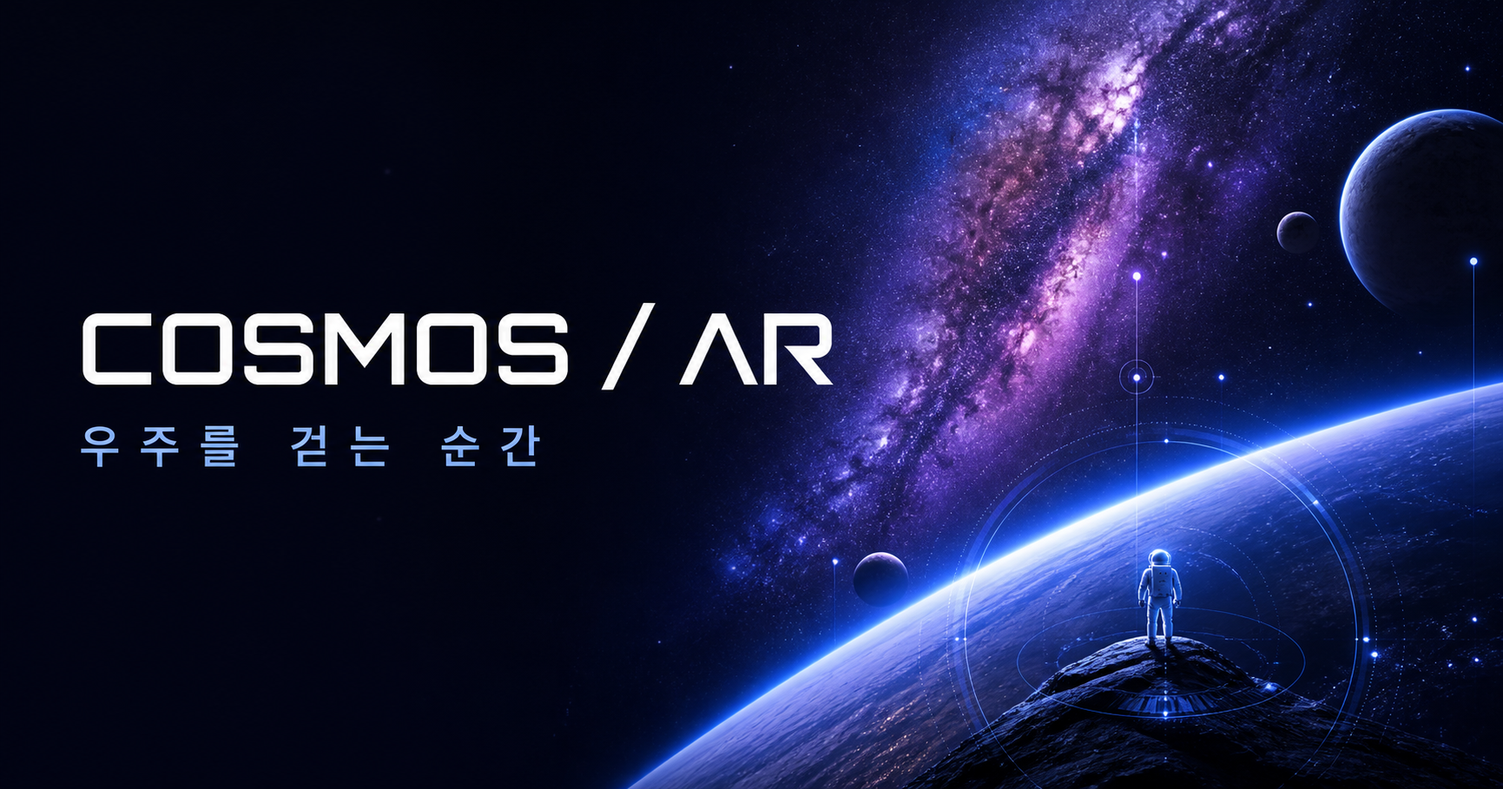
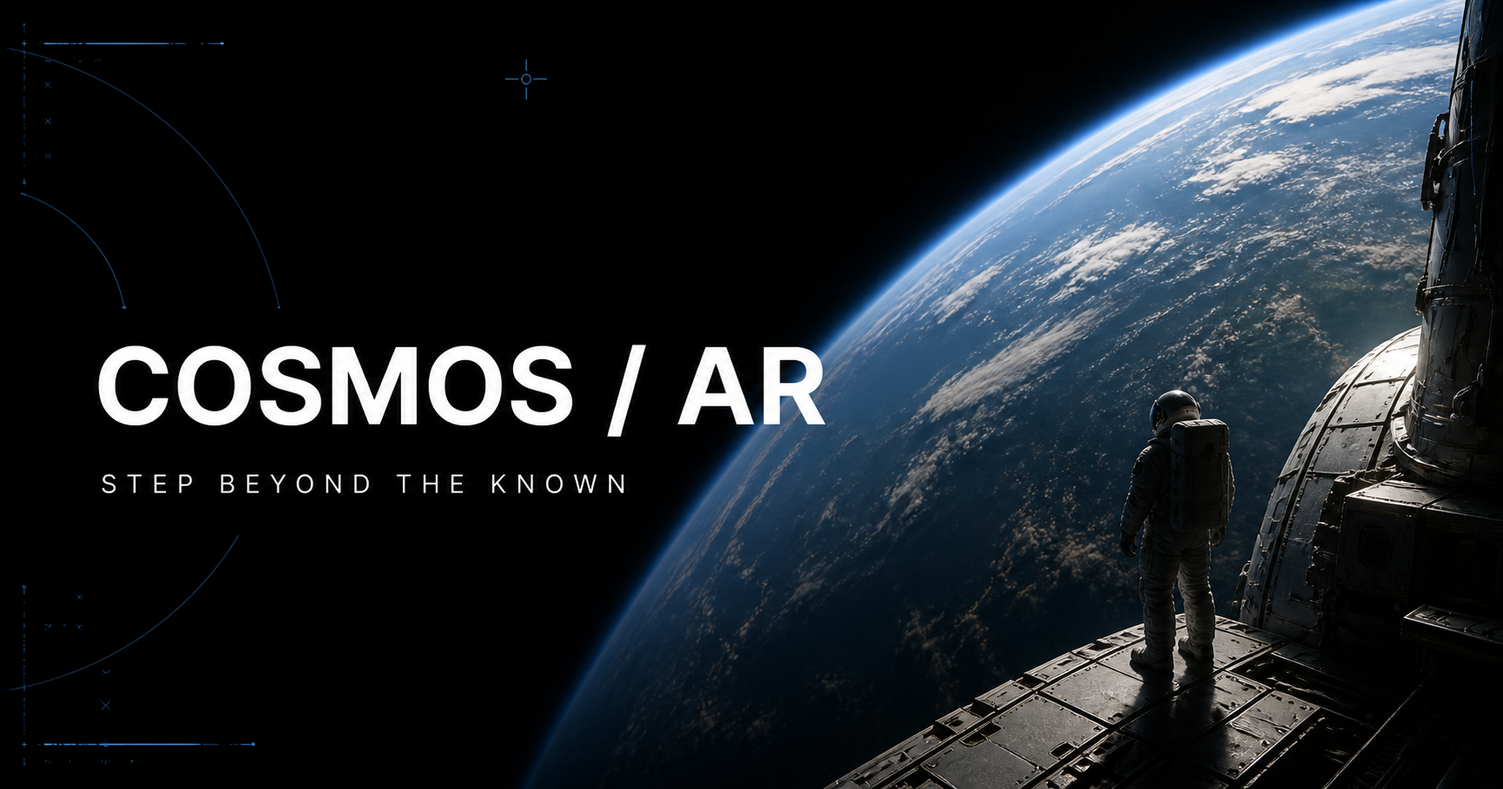
Refine site with English copy and photoreal space assets

diff --git a/app/globals.css b/app/globals.css
@@ -1,13 +1,11 @@
+@import url("https://cdn.jsdelivr.net/gh/orioncactus/pretendard/dist/web/static/pretendard.css");
 @import "tailwindcss";
-
-:root{--ink:#050615;--blue:#1e5fff;--violet:#8c42ff;--ice:#b8e8ff;--line:rgba(185,217,255,.2)}
-*{box-sizing:border-box}html{scroll-behavior:smooth;background:var(--ink)}body{margin:0;background:var(--ink);color:#fff;font-family:Arial,"Noto Sans KR",sans-serif;overflow-x:hidden}button,a{color:inherit}a{text-decoration:none}button{font:inherit}em{font-family:Georgia,serif;font-weight:400}main{overflow:clip}.eyebrow{font:600 11px/1.4 monospace;letter-spacing:.2em;color:#b5c8e7;display:flex;gap:10px;align-items:center}.eyebrow i{width:7px;height:7px;border-radius:50%;background:#5a8bff;box-shadow:0 0 14px #5a8bff}
-.topbar{position:fixed;z-index:50;top:0;left:0;right:0;height:76px;padding:0 4vw;display:flex;align-items:center;justify-content:space-between;border-bottom:1px solid rgba(255,255,255,.12);background:linear-gradient(#050615cc,transparent);backdrop-filter:blur(8px)}.brand{font:bold 16px monospace;letter-spacing:.12em}.brand>span:last-child{color:#6e9cff}.brand-orbit{display:inline-flex;align-items:center;justify-content:center;width:32px;height:32px;margin-right:8px;border:1px solid #6484d8;border-radius:50%;color:#8db4ff}.topbar nav{display:flex;gap:35px;font:11px monospace;letter-spacing:.12em;color:#c3c8d7}.topbar nav a:hover{color:#fff}.sound{border:0;background:none;font:10px monospace;letter-spacing:.1em;cursor:pointer}.sound i{color:#62a5ff;font-style:normal;margin-right:5px}
-.hero-scroll{height:360vh}.hero-sticky{height:100vh;position:sticky;top:0;overflow:hidden;background:#050615}.hero-image{position:absolute;width:100%;height:100%;object-fit:cover;will-change:transform}.space-vignette{position:absolute;inset:0;background:radial-gradient(circle at 50% 48%,transparent 25%,rgba(2,3,18,.32) 55%,#02030d 105%),linear-gradient(90deg,rgba(3,4,15,.65),transparent 45%)}.scan-grid{position:absolute;inset:0;background-image:linear-gradient(rgba(75,131,255,.18) 1px,transparent 1px),linear-gradient(90deg,rgba(75,131,255,.15) 1px,transparent 1px);background-size:72px 72px;mask-image:radial-gradient(circle,black,transparent 75%)}.hud-corners span{position:absolute;width:42px;height:42px;border-color:#74a2ff}.hud-corners span:nth-child(1){top:15%;left:4%;border-left:1px solid;border-top:1px solid}.hud-corners span:nth-child(2){top:15%;right:4%;border-right:1px solid;border-top:1px solid}.hud-corners span:nth-child(3){bottom:7%;left:4%;border-left:1px solid;border-bottom:1px solid}.hud-corners span:nth-child(4){bottom:7%;right:4%;border-right:1px solid;border-bottom:1px solid}.hero-copy{position:absolute;left:7vw;right:7vw;top:19vh;will-change:transform}.hero-copy h1{font-size:clamp(72px,10vw,164px);line-height:.78;letter-spacing:-.08em;margin:35px 0 50px;max-width:900px;text-shadow:0 8px 50px #000}.hero-copy h1 em{color:#a9c2ff}.hero-bottom{display:flex;align-items:center;gap:40px;border-top:1px solid var(--line);padding-top:20px;width:min(780px,75vw)}.hero-bottom p{font-size:12px;line-height:1.6;color:#d9e2f5}.hero-bottom b{margin-left:auto;font:9px/1.6 monospace;letter-spacing:.12em;color:#8b9ab7}.scroll-cue{height:50px;width:28px;border:1px solid #8ba7e5;border-radius:20px;display:grid;place-items:start center;padding:8px}.scroll-cue i{width:3px;height:9px;border-radius:2px;background:#fff;animation:scroll 1.4s infinite}.story-line{position:absolute;left:50%;top:48%;transform:translate(-50%,-50%);text-align:center;transition:.4s}.story-line p{font-size:13px;color:#d8e2ff}.story-line strong{display:block;font-size:clamp(45px,7vw,110px);line-height:1;letter-spacing:-.05em;text-shadow:0 4px 40px #000}.story-0{opacity:0}.altimeter{position:absolute;right:5vw;top:47%;font:10px monospace;color:#a5b9dd;display:grid;text-align:right}.altimeter b{font-size:21px;color:#fff;margin:4px 0}.hero-progress{position:absolute;right:2vw;top:22%;width:2px;height:54%;background:#ffffff22}.hero-progress span{display:block;width:100%;background:#7ab1ff;box-shadow:0 0 10px #7ab1ff}
-.planet-scroll{height:760vh;background:radial-gradient(circle at 50% 45%,#10183b,#03040e 55%)}.planet-sticky{position:sticky;top:0;height:100vh;overflow:hidden}.section-head{position:absolute;z-index:3;left:6vw;top:13vh}.section-head h2,.deep-title h2{font-size:clamp(45px,6vw,92px);line-height:.95;letter-spacing:-.06em;margin:18px 0}.section-head h2 em,.deep-title h2 em,.finale h2 em{color:#8bacff}.section-head>span{font:9px monospace;color:#7890c0;letter-spacing:.18em}.orbit-line{position:absolute;left:0;right:0;top:61%;height:1px;background:linear-gradient(90deg,transparent,#5778b866,transparent)}.planet-track{display:flex;width:max-content;height:100%;align-items:flex-end;padding-bottom:7vh;gap:6vw;will-change:transform}.planet-card{width:88vw;height:55vh;position:relative;flex:none;display:flex;align-items:center;justify-content:center}.planet-index{position:absolute;left:4%;top:8%;font:11px monospace;color:#7184a8}.planet-orb{width:var(--size);height:var(--size);border-radius:50%;position:relative;flex:none;background:radial-gradient(circle at 35% 28%,#ffffffaa 0 2%,transparent 12%),radial-gradient(circle at 70% 70%,#000b 5%,transparent 55%),repeating-linear-gradient(12deg,var(--planet) 0 9%,color-mix(in srgb,var(--planet),#fff 18%) 12%,var(--planet) 18%);box-shadow:inset -24px -18px 45px #000b,inset 8px 5px 22px #fff5,0 0 80px color-mix(in srgb,var(--planet),transparent 55%);animation:float 6s ease-in-out infinite}.planet-2{background:radial-gradient(ellipse at 31% 33%,#4aa263 0 7%,transparent 8%),radial-gradient(ellipse at 56% 68%,#7dbc66 0 12%,transparent 13%),radial-gradient(circle at 65% 25%,#fff 0 2%,transparent 10%),#1c70c9}.planet-3{background:radial-gradient(circle at 35% 28%,#e99561 0 4%,transparent 5%),repeating-radial-gradient(circle at 60% 55%,#8e3727 0 3%,#c05a38 7%,#d47a50 11%)}.planet-4{background:repeating-linear-gradient(#e7c9a5 0 8%,#b97b55 10% 14%,#ecd6b4 17%)}.planet-6{background:linear-gradient(#8ee4e6,#4bb6c5)}.planet-7{background:linear-gradient(#618ce8,#1744af 60%,#092679)}.planet-glow{position:absolute;inset:-8%;border:1px solid #ffffff18;border-radius:50%}.saturn-ring{position:absolute;z-index:-1;left:50%;top:50%;width:185%;height:32%;border:16px solid #d8c08a;border-left-color:#75653f;border-right-color:#f0dca8;border-radius:50%;transform:translate(-50%,-50%) rotate(-13deg);box-shadow:0 0 15px #d8c08a88}.planet-copy{width:310px;margin-left:8vw}.planet-copy>p{font:10px monospace;letter-spacing:.2em;color:#7898dd}.planet-copy h3{font-size:54px;margin:8px 0}.planet-copy>span{display:block;color:#b8c3db;font-size:13px;line-height:1.7}.planet-copy dl{display:flex;gap:30px;border-top:1px solid var(--line);margin-top:30px;padding-top:17px}.planet-copy dl div{display:grid;gap:6px}.planet-copy dt{font:9px monospace;color:#6e7c99}.planet-copy dd{margin:0;font:bold 13px monospace}.pan-progress{position:absolute;bottom:4%;left:6vw;right:6vw;height:2px;background:#ffffff1a}.pan-progress span{display:block;height:100%;background:linear-gradient(90deg,#3a72ff,#ae62ff);box-shadow:0 0 12px #527fff}
-.deep-space{min-height:190vh;position:relative;background:#02030b;overflow:hidden;padding:17vh 6vw 12vh}.deep-space>img{position:absolute;inset:0;width:100%;height:100%;object-fit:cover;object-position:center;opacity:.8}.deep-overlay{position:absolute;inset:0;background:linear-gradient(#03040c 0%,transparent 16%,#02030bd9 55%,#02030b 100%)}.deep-title{position:relative;z-index:2}.deep-title h2{max-width:850px}.signals{position:relative;z-index:3;margin-top:46vh;display:grid;grid-template-columns:repeat(4,1fr);border-top:1px solid var(--line);border-bottom:1px solid var(--line)}.signals button{position:relative;min-height:310px;text-align:left;padding:32px 24px;background:#06091a88;border:0;border-right:1px solid var(--line);backdrop-filter:blur(8px);cursor:pointer;transition:.3s}.signals button:hover,.signals button.active{background:linear-gradient(145deg,#284bad88,#7d3cd755)}.signals button>span{font:9px monospace;letter-spacing:.12em;color:#8fa3c9}.signals h3{font-size:30px;margin:25px 0}.signals p{font:400 28px monospace;margin-top:90px}.signals p small{display:block;font:10px sans-serif;color:#9aa6bd;margin-top:6px}.signals button>i{position:absolute;right:20px;top:20px;font-style:normal;color:#7ca5ff}.signal-detail{position:relative;z-index:2;margin:80px auto 0;width:min(650px,90%);text-align:center;border:1px solid #6d8bcd55;background:#07102799;padding:25px;backdrop-filter:blur(15px)}.signal-detail span{font:9px monospace;color:#7ea5ff}.signal-detail b{display:block;font-size:36px;margin:9px}.signal-detail p{font-size:11px;color:#9dabca}.signal-detail div{height:2px;background:#ffffff18}.signal-detail div i{display:block;width:78%;height:100%;background:#5b8cff;box-shadow:0 0 10px #5b8cff}
-.finale{height:105vh;position:relative;display:flex;align-items:center;justify-content:center;gap:7vw;background:radial-gradient(circle at 35% 55%,#1a3475,#070819 55%);overflow:hidden}.finale>img{height:72vh;position:relative;z-index:2;filter:drop-shadow(0 20px 50px #1c5bc4)}.finale>div:last-child{position:relative;z-index:2}.finale h2{font-size:clamp(45px,6vw,90px);line-height:.95;letter-spacing:-.06em;margin:20px 0 45px}.finale a{display:inline-flex;gap:40px;align-items:center;padding:15px 18px 15px 25px;border:1px solid #7295dd;border-radius:30px;font:11px monospace}.finale a span{width:27px;height:27px;border-radius:50%;background:#fff;color:#101633;display:grid;place-items:center}.final-orbit{position:absolute!important;left:11%;width:45vw;height:45vw;border:1px solid #637fce44;border-radius:50%}.final-orbit span{position:absolute;border:1px solid #637fce44;border-radius:50%;inset:10%}.final-orbit span:nth-child(2){inset:22%}.final-orbit span:nth-child(3){inset:35%;background:#5382ff18}
-.mascot-guide{position:fixed;z-index:40;right:24px;bottom:24px;border:0;background:none;display:flex;align-items:flex-end;cursor:pointer}.mascot-guide>img{width:76px;height:92px;object-fit:contain;filter:drop-shadow(0 8px 15px #000)}.mascot-guide.open>img{animation:bob 2s ease-in-out infinite}.mascot-guide>span{position:absolute;right:60px;bottom:65px;width:215px;padding:17px 32px 17px 17px;border:1px solid #7fa2ec66;background:#07112ee8;border-radius:15px 15px 2px 15px;text-align:left;font-size:11px;line-height:1.5;box-shadow:0 15px 40px #0008;backdrop-filter:blur(12px)}.mascot-guide>span b{display:block;color:#8eb4ff;margin-bottom:4px}.mascot-guide>span i{position:absolute;right:12px;top:10px;font-style:normal;color:#76829e}footer{height:160px;border-top:1px solid var(--line);display:flex;align-items:center;justify-content:space-between;padding:0 5vw;background:#03040d}footer p,footer small{font:9px monospace;letter-spacing:.15em;color:#76829b}
-@keyframes scroll{0%{transform:translateY(0);opacity:1}100%{transform:translateY(18px);opacity:0}}@keyframes float{50%{transform:translateY(-18px) rotate(2deg)}}@keyframes bob{50%{transform:translateY(-7px) rotate(-2deg)}}
-@media(max-width:800px){.topbar{height:62px;padding:0 18px}.topbar nav{display:none}.brand{font-size:12px}.brand-orbit{width:25px;height:25px}.hero-copy{left:24px;top:20vh}.hero-copy h1{font-size:64px}.hero-bottom{width:85vw}.story-line{width:90vw}.story-line strong{font-size:48px}.altimeter{right:22px;top:auto;bottom:15%}.planet-scroll{height:700vh}.section-head{left:24px;top:11vh}.section-head h2{font-size:45px}.planet-track{gap:12vw;padding-bottom:10vh}.planet-card{width:100vw;height:53vh;flex-direction:column;align-items:flex-start;padding-left:10vw}.planet-orb{margin-left:16vw}.planet-copy{margin:40px 0 0;width:80vw}.planet-copy h3{font-size:42px}.signals{grid-template-columns:1fr 1fr;margin-top:32vh}.signals button{min-height:230px}.signals p{margin-top:55px;font-size:21px}.deep-space{min-height:220vh;padding-left:24px;padding-right:24px}.deep-title h2{font-size:46px}.finale{height:110vh;display:block;padding:16vh 25px 0}.finale>img{position:absolute;height:51vh;right:-12%;bottom:1%}.finale h2{font-size:47px}.mascot-guide{right:12px;bottom:12px}.mascot-guide>img{width:62px}.mascot-guide>span{right:50px;width:190px}footer{padding:0 24px}footer p{display:none}}
-@media(prefers-reduced-motion:reduce){html{scroll-behavior:auto}.planet-orb,.mascot-guide.open>img,.scroll-cue i{animation:none}}
+:root{--ink:#03050a;--blue:#5f8cff;--line:rgba(190,210,240,.18)}*{box-sizing:border-box}html{scroll-behavior:smooth;background:var(--ink)}body{margin:0;background:var(--ink);color:#f6f8fb;font-family:"Pretendard",Arial,sans-serif;overflow-x:hidden;font-style:normal}button,a{color:inherit;font:inherit}button{font-style:normal}a{text-decoration:none}main{overflow:clip}.eyebrow{font-size:11px;font-weight:600;line-height:1.4;letter-spacing:.18em;color:#9caac2;display:flex;gap:10px;align-items:center}.eyebrow i{width:6px;height:6px;border-radius:50%;background:var(--blue);box-shadow:0 0 12px var(--blue)}
+.topbar{position:fixed;z-index:50;top:0;left:0;right:0;height:72px;padding:0 4vw;display:flex;align-items:center;justify-content:space-between;border-bottom:1px solid rgba(255,255,255,.1);background:linear-gradient(#03050acc,transparent);backdrop-filter:blur(10px)}.brand{display:flex;align-items:center;font-size:14px;font-weight:750;letter-spacing:.11em}.brand b{color:#7ca0ff;margin-left:4px}.brand-mark{display:grid;place-items:center;width:30px;height:30px;margin-right:10px;border:1px solid #5d75a8;border-radius:50%;font-size:10px}.topbar nav{display:flex;gap:36px;font-size:11px;font-weight:520;color:#aeb7c7}.topbar nav a:hover{color:#fff}.sound{border:0;background:none;font-size:10px;letter-spacing:.1em;cursor:pointer}.sound i{color:#72a0ff;font-style:normal;margin-right:5px}
+.hero-scroll{height:360vh}.hero-sticky{height:100vh;position:sticky;top:0;overflow:hidden;background:#05070d}.hero-image{position:absolute;width:100%;height:100%;object-fit:cover;will-change:transform}.space-vignette{position:absolute;inset:0;background:radial-gradient(circle at 50% 48%,transparent 24%,rgba(2,3,8,.28) 55%,#020308 110%),linear-gradient(90deg,rgba(3,4,10,.68),transparent 50%)}.scan-grid{position:absolute;inset:0;background-image:linear-gradient(rgba(75,131,255,.16) 1px,transparent 1px),linear-gradient(90deg,rgba(75,131,255,.13) 1px,transparent 1px);background-size:72px 72px;mask-image:radial-gradient(circle,black,transparent 74%)}.hud-corners span{position:absolute;width:40px;height:40px;border-color:#6d8ed5}.hud-corners span:nth-child(1){top:14%;left:4%;border-left:1px solid;border-top:1px solid}.hud-corners span:nth-child(2){top:14%;right:4%;border-right:1px solid;border-top:1px solid}.hud-corners span:nth-child(3){bottom:7%;left:4%;border-left:1px solid;border-bottom:1px solid}.hud-corners span:nth-child(4){bottom:7%;right:4%;border-right:1px solid;border-bottom:1px solid}.hero-copy{position:absolute;left:7vw;right:7vw;top:20vh;will-change:transform}.hero-copy h1{font-size:clamp(70px,9.6vw,150px);font-weight:680;line-height:.82;letter-spacing:-.065em;margin:35px 0 50px;max-width:1000px;text-shadow:0 8px 50px #000}.hero-copy h1 span,.section-head h2 span,.deep-title h2 span,.finale h2 span{color:#a8bfff}.hero-bottom{display:flex;align-items:center;gap:40px;border-top:1px solid var(--line);padding-top:20px;width:min(780px,75vw)}.hero-bottom p{font-size:12px;line-height:1.6;color:#d9e2f5}.hero-bottom b{margin-left:auto;font-size:9px;line-height:1.6;letter-spacing:.12em;color:#8b9ab7}.scroll-cue{height:50px;width:28px;border:1px solid #8ba7e5;border-radius:20px;display:grid;place-items:start center;padding:8px}.scroll-cue i{width:3px;height:9px;border-radius:2px;background:#fff;animation:scroll 1.4s infinite}.story-line{position:absolute;left:50%;top:48%;transform:translate(-50%,-50%);text-align:center;transition:.4s}.story-line p{font-size:12px;letter-spacing:.16em;color:#c4cfe1}.story-line strong{display:block;font-size:clamp(45px,7vw,110px);font-weight:680;line-height:1;letter-spacing:-.05em;text-shadow:0 4px 40px #000}.story-0{opacity:0}.altimeter{position:absolute;right:5vw;top:47%;font-size:10px;color:#95a4bc;display:grid;text-align:right}.altimeter b{font-size:21px;color:#fff;margin:4px 0}.hero-progress{position:absolute;right:2vw;top:22%;width:2px;height:54%;background:#ffffff22}.hero-progress span{display:block;width:100%;background:#7ab1ff;box-shadow:0 0 10px #7ab1ff}
+.planet-scroll{height:760vh;background:radial-gradient(circle at 50% 45%,#121a31,#03050a 58%)}.planet-sticky{position:sticky;top:0;height:100vh;overflow:hidden}.section-head{position:absolute;z-index:3;left:6vw;top:12vh}.section-head h2,.deep-title h2{font-size:clamp(48px,6vw,90px);font-weight:650;line-height:.95;letter-spacing:-.055em;margin:18px 0}.section-head>small{font-size:9px;color:#72809b;letter-spacing:.16em}.orbit-line{position:absolute;left:0;right:0;top:61%;height:1px;background:linear-gradient(90deg,transparent,#5778b855,transparent)}.planet-track{display:flex;width:max-content;height:100%;align-items:flex-end;padding-bottom:6vh;gap:6vw;will-change:transform}.planet-card{width:88vw;height:58vh;position:relative;flex:none;display:flex;align-items:center;justify-content:center}.planet-index{position:absolute;left:4%;top:6%;font-size:10px;letter-spacing:.15em;color:#72809a}.planet-image{width:var(--planet-size);height:var(--planet-size);object-fit:contain;flex:none;filter:drop-shadow(0 25px 55px rgba(0,0,0,.65));animation:float 7s ease-in-out infinite}.planet-copy{width:330px;margin-left:7vw}.planet-copy>p{font-size:9px;font-weight:600;letter-spacing:.2em;color:#7898dd}.planet-copy h3{font-size:56px;font-weight:650;letter-spacing:-.04em;margin:9px 0}.planet-copy>span{display:block;color:#aeb8ca;font-size:13px;line-height:1.7}.planet-copy dl{display:flex;gap:30px;border-top:1px solid var(--line);margin-top:28px;padding-top:17px}.planet-copy dl div{display:grid;gap:7px}.planet-copy dt{font-size:8px;letter-spacing:.12em;color:#6e7c99}.planet-copy dd{margin:0;font-size:13px;font-weight:650}.pan-progress{position:absolute;bottom:4%;left:6vw;right:6vw;height:2px;background:#ffffff17}.pan-progress span{display:block;height:100%;background:#6f96ff;box-shadow:0 0 12px #527fff}
+.deep-space{min-height:220vh;position:relative;background:#020307;padding:15vh 5vw 12vh}.deep-title{max-width:1000px}.deep-intro{max-width:480px;margin-top:30px;color:#929db0;font-size:14px;line-height:1.7}.object-grid{margin-top:15vh;display:grid;grid-template-columns:1fr 1fr;gap:1px;background:#ffffff24;border:1px solid var(--line)}.object-grid button{height:68vh;min-height:520px;position:relative;overflow:hidden;border:0;background:#05070b;text-align:left;cursor:pointer}.object-grid button>img{position:absolute;inset:0;width:100%;height:100%;object-fit:cover;filter:saturate(.84) contrast(1.05);transition:transform .7s ease,filter .4s}.object-grid button:hover>img,.object-grid button.active>img{transform:scale(1.045);filter:saturate(1) contrast(1.06)}.object-shade{position:absolute;inset:0;background:linear-gradient(transparent 24%,rgba(2,4,8,.2) 48%,#03050aeF 100%)}.object-meta{position:absolute;left:35px;right:35px;bottom:32px;z-index:2}.object-meta small{font-size:9px;letter-spacing:.14em;color:#9aaac4}.object-meta h3{font-size:38px;font-weight:630;letter-spacing:-.035em;margin:12px 0}.object-meta>p{max-width:390px;color:#a7b1c1;font-size:12px;line-height:1.6}.object-meta>b{position:absolute;right:0;bottom:0;font-size:27px;font-weight:600;text-align:right}.object-meta>b em{display:block;font-size:9px;font-weight:400;font-style:normal;color:#8e9ab0}.object-grid button>i{position:absolute;z-index:3;right:25px;top:23px;width:35px;height:35px;display:grid;place-items:center;border:1px solid #ffffff55;border-radius:50%;font-style:normal}.signal-detail{margin:90px auto 0;width:min(650px,90%);text-align:center;border:1px solid #6d8bcd55;background:#07102799;padding:25px}.signal-detail span{font-size:9px;letter-spacing:.16em;color:#7ea5ff}.signal-detail b{display:block;font-size:34px;margin:9px}.signal-detail p{font-size:11px;color:#9dabca}.signal-detail div{height:2px;background:#ffffff18}.signal-detail div i{display:block;width:78%;height:100%;background:#5b8cff;box-shadow:0 0 10px #5b8cff}
+.finale{height:105vh;position:relative;display:flex;align-items:center;justify-content:center;gap:7vw;background:radial-gradient(circle at 35% 55%,#183267,#060811 57%);overflow:hidden}.finale>img{height:72vh;position:relative;z-index:2;filter:drop-shadow(0 20px 50px #1c5bc4)}.finale>div:last-child{position:relative;z-index:2}.finale h2{font-size:clamp(48px,6vw,88px);font-weight:650;line-height:.96;letter-spacing:-.055em;margin:20px 0 45px}.finale a{display:inline-flex;gap:40px;align-items:center;padding:15px 18px 15px 25px;border:1px solid #7295dd;border-radius:30px;font-size:11px}.finale a span{width:27px;height:27px;border-radius:50%;background:#fff;color:#101633;display:grid;place-items:center}.final-orbit{position:absolute!important;left:11%;width:45vw;height:45vw;border:1px solid #637fce44;border-radius:50%}.final-orbit span{position:absolute;border:1px solid #637fce44;border-radius:50%;inset:10%}.final-orbit span:nth-child(2){inset:22%}.final-orbit span:nth-child(3){inset:35%;background:#5382ff18}.mascot-guide{position:fixed;z-index:40;right:24px;bottom:24px;border:0;background:none;display:flex;align-items:flex-end;cursor:pointer}.mascot-guide>img{width:76px;height:92px;object-fit:contain;filter:drop-shadow(0 8px 15px #000)}.mascot-guide.open>img{animation:bob 2s ease-in-out infinite}.mascot-guide>span{position:absolute;right:60px;bottom:65px;width:220px;padding:17px 32px 17px 17px;border:1px solid #7fa2ec66;background:#07112ee8;border-radius:15px 15px 2px 15px;text-align:left;font-size:11px;line-height:1.5;box-shadow:0 15px 40px #0008;backdrop-filter:blur(12px)}.mascot-guide>span b{display:block;color:#8eb4ff;margin-bottom:4px}.mascot-guide>span i{position:absolute;right:12px;top:10px;font-style:normal;color:#76829e}footer{height:160px;border-top:1px solid var(--line);display:flex;align-items:center;justify-content:space-between;padding:0 5vw;background:#03040d}footer p,footer small{font-size:9px;letter-spacing:.15em;color:#76829b}
+@keyframes scroll{0%{transform:translateY(0);opacity:1}100%{transform:translateY(18px);opacity:0}}@keyframes float{50%{transform:translateY(-15px)}}@keyframes bob{50%{transform:translateY(-7px)}}
+@media(max-width:800px){.topbar{height:62px;padding:0 18px}.topbar nav{display:none}.brand{font-size:11px}.hero-copy{left:24px;top:20vh}.hero-copy h1{font-size:60px}.hero-bottom{width:85vw}.story-line{width:90vw}.story-line strong{font-size:46px}.altimeter{right:22px;top:auto;bottom:15%}.section-head{left:24px;top:11vh}.section-head h2{font-size:44px}.planet-track{gap:12vw;padding-bottom:8vh}.planet-card{width:100vw;height:57vh;flex-direction:column;align-items:flex-start;padding-left:8vw}.planet-image{width:min(var(--planet-size),76vw);height:min(var(--planet-size),76vw);margin-left:6vw}.planet-copy{margin:18px 0 0;width:84vw}.planet-copy h3{font-size:40px}.planet-copy>span{font-size:12px}.object-grid{grid-template-columns:1fr}.object-grid button{height:65vh;min-height:480px}.object-meta{left:22px;right:22px}.object-meta h3{font-size:31px}.object-meta>b{font-size:23px}.deep-space{padding-left:20px;padding-right:20px}.deep-title h2{font-size:44px}.finale{height:110vh;display:block;padding:16vh 25px 0}.finale>img{position:absolute;height:51vh;right:-12%;bottom:1%}.finale h2{font-size:45px}.mascot-guide{right:12px;bottom:12px}.mascot-guide>img{width:62px}.mascot-guide>span{right:50px;width:190px}footer{padding:0 24px}footer p{display:none}}
+@media(prefers-reduced-motion:reduce){html{scroll-behavior:auto}.planet-image,.mascot-guide.open>img,.scroll-cue i{animation:none}}

diff --git a/app/page.tsx b/app/page.tsx
@@ -3,14 +3,21 @@
 import { useEffect, useRef, useState } from "react";
 
 const planets = [
-  { name: "수성", en: "MERCURY", fact: "태양과 가장 가까운 암석 행성", temp: "167°C", color: "#b9a895", size: 118, orbit: "88일" },
-  { name: "금성", en: "VENUS", fact: "두꺼운 구름 아래 숨은 뜨거운 세계", temp: "464°C", color: "#d99b53", size: 156, orbit: "225일" },
-  { name: "지구", en: "EARTH", fact: "우리가 아는 유일한 생명의 행성", temp: "15°C", color: "#2a8bd8", size: 172, orbit: "365일" },
-  { name: "화성", en: "MARS", fact: "인류의 다음 발자국을 기다리는 붉은 행성", temp: "-63°C", color: "#c45737", size: 146, orbit: "687일" },
-  { name: "목성", en: "JUPITER", fact: "태양계의 거대한 폭풍 수호자", temp: "-110°C", color: "#d6a26d", size: 254, orbit: "12년" },
-  { name: "토성", en: "SATURN", fact: "얼음과 암석으로 빛나는 고리의 행성", temp: "-140°C", color: "#d6bd83", size: 218, orbit: "29년" },
-  { name: "천왕성", en: "URANUS", fact: "옆으로 누워 공전하는 얼음 거인", temp: "-195°C", color: "#72d2d5", size: 174, orbit: "84년" },
-  { name: "해왕성", en: "NEPTUNE", fact: "초음속 바람이 부는 푸른 경계", temp: "-200°C", color: "#3767da", size: 168, orbit: "165년" },
+  { name:"Mercury", fact:"A cratered world shaped by extreme heat and cold.", temp:"167°C", orbit:"88 days", image:"/planet-mercury.png", size:240 },
+  { name:"Venus", fact:"A dense atmosphere hides the hottest surface in the Solar System.", temp:"464°C", orbit:"225 days", image:"/planet-venus.png", size:270 },
+  { name:"Earth", fact:"The only world known to hold liquid oceans and life.", temp:"15°C", orbit:"365 days", image:"/planet-earth.png", size:290 },
+  { name:"Mars", fact:"A cold desert preserving the record of an ancient, wetter past.", temp:"−63°C", orbit:"687 days", image:"/planet-mars.png", size:260 },
+  { name:"Jupiter", fact:"A gas giant whose storms have lasted for centuries.", temp:"−110°C", orbit:"11.9 years", image:"/planet-jupiter.png", size:390 },
+  { name:"Saturn", fact:"An immense ring system built from ice, rock and dust.", temp:"−140°C", orbit:"29.5 years", image:"/planet-saturn.png", size:430 },
+  { name:"Uranus", fact:"An ice giant rotating almost completely on its side.", temp:"−195°C", orbit:"84 years", image:"/planet-uranus.png", size:300 },
+  { name:"Neptune", fact:"The outermost planet, driven by supersonic winds.", temp:"−200°C", orbit:"164.8 years", image:"/planet-neptune.png", size:300 },
+];
+
+const objects = [
+  { name:"Asteroids", tag:"NEAR-EARTH OBJECTS", value:"1.3M+", unit:"catalogued bodies", image:"/object-asteroid.png", note:"Rocky remnants from the formation of the Solar System." },
+  { name:"The Milky Way", tag:"HOME GALAXY", value:"100K", unit:"light-years wide", image:"/object-galaxy.png", note:"A barred spiral galaxy containing hundreds of billions of stars." },
+  { name:"Constellations", tag:"SKY MAP", value:"88", unit:"official regions", image:"/object-constellation.png", note:"Recognised patterns that divide the entire celestial sphere." },
+  { name:"Satellites", tag:"LOW EARTH ORBIT", value:"11.7K+", unit:"active spacecraft", image:"/object-satellite.png", note:"Working machines observing, connecting and mapping our planet." },
 ];
 
 function useScrollProgress(ref: React.RefObject<HTMLElement | null>) {
@@ -19,108 +26,63 @@ function useScrollProgress(ref: React.RefObject<HTMLElement | null>) {
     const update = () => {
       const el = ref.current;
       if (!el) return;
-      const rect = el.getBoundingClientRect();
       const range = Math.max(1, el.offsetHeight - window.innerHeight);
-      setProgress(Math.min(1, Math.max(0, -rect.top / range)));
+      setProgress(Math.min(1, Math.max(0, -el.getBoundingClientRect().top / range)));
     };
-    update();
-    window.addEventListener("scroll", update, { passive: true });
-    window.addEventListener("resize", update);
+    update(); window.addEventListener("scroll", update, { passive:true }); window.addEventListener("resize", update);
     return () => { window.removeEventListener("scroll", update); window.removeEventListener("resize", update); };
   }, [ref]);
   return progress;
 }
 
-function Planet({ planet, index }: { planet: typeof planets[number]; index: number }) {
-  return (
-    <article className="planet-card">
-      <span className="planet-index">0{index + 1}</span>
-      <div className={`planet-orb planet-${index}`} style={{ "--planet": planet.color, "--size": `${planet.size}px` } as React.CSSProperties}>
-        {index === 5 && <span className="saturn-ring" />}
-        <span className="planet-glow" />
-      </div>
-      <div className="planet-copy">
-        <p>{planet.en}</p><h3>{planet.name}</h3><span>{planet.fact}</span>
-        <dl><div><dt>평균 기온</dt><dd>{planet.temp}</dd></div><div><dt>공전 주기</dt><dd>{planet.orbit}</dd></div></dl>
-      </div>
-    </article>
-  );
+function Planet({ planet, index }: { planet: typeof planets[number]; index:number }) {
+  return <article className="planet-card">
+    <span className="planet-index">{String(index + 1).padStart(2,"0")} / 08</span>
+    <img className="planet-image" src={planet.image} alt={`Photorealistic 3D render of ${planet.name}`} style={{ "--planet-size":`${planet.size}px` } as React.CSSProperties}/>
+    <div className="planet-copy"><p>SOLAR SYSTEM</p><h3>{planet.name}</h3><span>{planet.fact}</span>
+      <dl><div><dt>MEAN TEMPERATURE</dt><dd>{planet.temp}</dd></div><div><dt>ORBITAL PERIOD</dt><dd>{planet.orbit}</dd></div></dl>
+    </div>
+  </article>;
 }
 
 export default function Home() {
-  const heroRef = useRef<HTMLElement>(null);
-  const planetsRef = useRef<HTMLElement>(null);
-  const hero = useScrollProgress(heroRef);
-  const pan = useScrollProgress(planetsRef);
-  const [sound, setSound] = useState(false);
-  const [guideOpen, setGuideOpen] = useState(true);
-  const [activeSignal, setActiveSignal] = useState("소행성");
-  const heroText = hero < .27 ? 0 : hero < .57 ? 1 : 2;
+  const heroRef=useRef<HTMLElement>(null), planetsRef=useRef<HTMLElement>(null);
+  const hero=useScrollProgress(heroRef), pan=useScrollProgress(planetsRef);
+  const [sound,setSound]=useState(false), [guideOpen,setGuideOpen]=useState(true), [active,setActive]=useState(0);
+  const stage=hero < .27 ? 0 : hero < .57 ? 1 : 2;
+  const stageCopy=[{small:"CLEARING EARTH'S ATMOSPHERE",large:"ASCENT"},{small:"384,400 KM FROM HOME",large:"LUNAR ORBIT"},{small:"TRAJECTORY CONFIRMED",large:"DEEP SPACE"}][stage];
+  return <main>
+    <header className="topbar"><a className="brand" href="#top" aria-label="Cosmos AR home"><span className="brand-mark">C</span>COSMOS <b>/ AR</b></a>
+      <nav aria-label="Primary navigation"><a href="#planets">Planets</a><a href="#deep-space">Deep space</a><a href="#signals">Orbit data</a></nav>
+      <button className="sound" onClick={()=>setSound(!sound)} aria-pressed={sound}><i>{sound?"●":"○"}</i> SOUND {sound?"ON":"OFF"}</button>
+    </header>
 
-  return (
-    <main>
-      <header className="topbar">
-        <a className="brand" href="#top" aria-label="COSMOS AR 홈"><span className="brand-orbit">✦</span> COSMOS<span>/AR</span></a>
-        <nav aria-label="주요 메뉴"><a href="#planets">행성</a><a href="#deep-space">딥 스페이스</a><a href="#signals">궤도 신호</a></nav>
-        <button className="sound" onClick={() => setSound(!sound)} aria-pressed={sound}><i>{sound ? "◉" : "○"}</i> SOUND {sound ? "ON" : "OFF"}</button>
-      </header>
+    <section id="top" className="hero-scroll" ref={heroRef}><div className="hero-sticky">
+      <img className="hero-image" src="/hero-space.png" alt="An astronaut standing on the lunar surface" style={{transform:`scale(${1+hero*.42}) translate3d(${-hero*3}%,${hero*3}%,0)`}}/>
+      <div className="space-vignette"/><div className="scan-grid" style={{opacity:.1+hero*.25}}/><div className="hud-corners"><span/><span/><span/><span/></div>
+      <div className="hero-copy" style={{opacity:1-Math.min(1,hero*2.8),transform:`translateY(${-hero*90}px)`}}><p className="eyebrow"><i/>INTERSTELLAR FIELD GUIDE · 2026</p>
+        <h1>Step beyond<br/><span>the known.</span></h1>
+        <div className="hero-bottom"><p>Scroll to begin<br/>the journey.</p><span className="scroll-cue"><i/></span><b>SEOUL / 37.56°N<br/>LIVE TELEMETRY</b></div>
+      </div>
+      <div className={`story-line story-${stage}`}><p>{stageCopy.small}</p><strong>{stageCopy.large}</strong></div>
+      <div className="altimeter"><span>ALTITUDE</span><b>{Math.round(384400*hero).toLocaleString()}</b><small>KM</small></div><div className="hero-progress"><span style={{height:`${hero*100}%`}}/></div>
+    </div></section>
 
-      <section id="top" className="hero-scroll" ref={heroRef}>
-        <div className="hero-sticky">
-          <img className="hero-image" src="/hero-space.png" alt="달 표면에서 우주를 바라보는 우주인" style={{ transform: `scale(${1 + hero * .42}) translate3d(${hero * -3}%, ${hero * 3}%, 0)` }} />
-          <div className="space-vignette" />
-          <div className="scan-grid" style={{ opacity: .15 + hero * .3 }} />
-          <div className="hud-corners"><span /><span /><span /><span /></div>
-          <div className="hero-copy" style={{ opacity: 1 - Math.min(1, hero * 2.8), transform: `translateY(${-hero * 90}px)` }}>
-            <p className="eyebrow"><i /> INTERSTELLAR EXPLORATION · 2026</p>
-            <h1>우주를<br/><em>걷는</em> 순간</h1>
-            <div className="hero-bottom"><p>스크롤을 내려<br/>탐사를 시작하세요</p><span className="scroll-cue"><i /></span><b>SEOUL / 37.56°N<br/>LIVE SIGNAL</b></div>
-          </div>
-          <div className={`story-line story-${heroText}`}>
-            <p>{heroText === 0 ? "대기권을 벗어나는 중" : heroText === 1 ? "38만 km 너머, 달의 궤도" : "이제 태양계를 가로지릅니다"}</p>
-            <strong>{heroText === 0 ? "ASCENDING" : heroText === 1 ? "LUNAR ORBIT" : "SYSTEM ONLINE"}</strong>
-          </div>
-          <div className="altimeter"><span>ALT</span><b>{Math.round(384400 * hero).toLocaleString()}</b><small>KM</small></div>
-          <div className="hero-progress"><span style={{ height: `${hero * 100}%` }} /></div>
-        </div>
-      </section>
+    <section id="planets" className="planet-scroll" ref={planetsRef}><div className="planet-sticky">
+      <div className="section-head"><p className="eyebrow"><i/>SOLAR SYSTEM / 01—08</p><h2>Eight worlds.<br/><span>One system.</span></h2><small>SCROLL TO TRAVEL →</small></div><div className="orbit-line"/>
+      <div className="planet-track" style={{transform:`translate3d(calc(6vw - ${pan*685}vw),0,0)`}}>{planets.map((p,i)=><Planet key={p.name} planet={p} index={i}/>)}</div>
+      <div className="pan-progress"><span style={{width:`${pan*100}%`}}/></div>
+    </div></section>
 
-      <section id="planets" className="planet-scroll" ref={planetsRef}>
-        <div className="planet-sticky">
-          <div className="section-head"><p className="eyebrow"><i /> SOLAR SYSTEM / 01—08</p><h2>여덟 개의 세계,<br/><em>하나의 궤도</em></h2><span>SCROLL TO TRAVEL →</span></div>
-          <div className="orbit-line" />
-          <div className="planet-track" style={{ transform: `translate3d(calc(6vw - ${pan * 685}vw), 0, 0)` }}>
-            {planets.map((p, i) => <Planet key={p.name} planet={p} index={i} />)}
-          </div>
-          <div className="pan-progress"><span style={{ width: `${pan * 100}%` }} /></div>
-        </div>
-      </section>
+    <section id="deep-space" className="deep-space"><div className="deep-title"><p className="eyebrow"><i/>BEYOND THE PLANETS</p><h2>Explore what lives<br/><span>between the light.</span></h2><p className="deep-intro">A closer look at the objects, structures and machines that define our place in space.</p></div>
+      <div className="object-grid" id="signals">{objects.map((item,i)=><button key={item.name} className={active===i?"active":""} onClick={()=>setActive(i)}>
+        <img src={item.image} alt={`Photorealistic 3D view of ${item.name}`}/><span className="object-shade"/><div className="object-meta"><small>{String(i+1).padStart(2,"0")} / {item.tag}</small><h3>{item.name}</h3><p>{item.note}</p><b>{item.value}<em>{item.unit}</em></b></div><i>↗</i>
+      </button>)}</div>
+      <aside className="signal-detail"><span>LIVE OBJECT</span><b>{objects[active].name}</b><p>Telemetry received · Signal strength 98.7%</p><div><i/></div></aside>
+    </section>
 
-      <section id="deep-space" className="deep-space">
-        <img src="/deep-space-panorama.png" alt="소행성, 은하수, 별자리, 인공위성이 펼쳐진 우주" />
-        <div className="deep-overlay" />
-        <div className="deep-title"><p className="eyebrow"><i /> BEYOND THE PLANETS</p><h2>행성 너머의<br/><em>미지와 조우하다</em></h2></div>
-        <div className="signals" id="signals">
-          {[{n:"소행성",e:"ASTEROID",v:"1,329,351",u:"발견된 천체"},{n:"은하수",e:"MILKY WAY",v:"100,000",u:"광년의 지름"},{n:"별자리",e:"CONSTELLATION",v:"88",u:"공식 별자리"},{n:"인공위성",e:"SATELLITE",v:"11,700+",u:"활성 궤도체"}].map((item, i) => (
-            <button key={item.n} className={activeSignal === item.n ? "active" : ""} onClick={() => setActiveSignal(item.n)}>
-              <span>0{i+1} / {item.e}</span><h3>{item.n}</h3><p>{item.v}<small>{item.u}</small></p><i>↗</i>
-            </button>
-          ))}
-        </div>
-        <aside className="signal-detail"><span>LIVE OBJECT</span><b>{activeSignal}</b><p>탐사 데이터 수신 중 · 신호 강도 98.7%</p><div><i /></div></aside>
-      </section>
-
-      <section className="finale">
-        <div className="final-orbit"><span /><span /><span /></div>
-        <img src="/astronaut.png" alt="손을 흔드는 우주인 가이드 미오" />
-        <div><p className="eyebrow"><i /> MISSION COMPLETE</p><h2>다음 발견은<br/>당신의 <em>스크롤</em> 끝에</h2><a href="#top">탐사 다시 시작 <span>↑</span></a></div>
-      </section>
-
-      <button className={`mascot-guide ${guideOpen ? "open" : ""}`} onClick={() => setGuideOpen(!guideOpen)} aria-label="우주인 미오의 탐사 가이드">
-        <img src="/astronaut.png" alt="" />
-        {guideOpen && <span><b>안녕, 나는 미오!</b>천천히 스크롤하면 우주가 움직여요.<i>×</i></span>}
-      </button>
-      <footer><a className="brand" href="#top"><span className="brand-orbit">✦</span> COSMOS<span>/AR</span></a><p>THE UNIVERSE IS WAITING FOR YOU.</p><small>© 2026 COSMOS AR LAB</small></footer>
-    </main>
-  );
+    <section className="finale"><div className="final-orbit"><span/><span/><span/></div><img src="/astronaut.png" alt="Mio, the astronaut field guide"/><div><p className="eyebrow"><i/>MISSION COMPLETE</p><h2>The next discovery<br/>starts <span>with you.</span></h2><a href="#top">Restart journey <span>↑</span></a></div></section>
+    <button className={`mascot-guide ${guideOpen?"open":""}`} onClick={()=>setGuideOpen(!guideOpen)} aria-label="Open Mio's field guide"><img src="/astronaut.png" alt=""/>{guideOpen&&<span><b>Hi, I’m Mio.</b>Take it slowly. The view changes as you scroll.<i>×</i></span>}</button>
+    <footer><a className="brand" href="#top"><span className="brand-mark">C</span>COSMOS <b>/ AR</b></a><p>A FIELD GUIDE TO THE OBSERVABLE UNIVERSE.</p><small>© 2026 COSMOS AR LAB</small></footer>
+  </main>;
 }

diff --git a/app/layout.tsx b/app/layout.tsx
@@ -1,18 +1,4 @@
 import type { Metadata } from "next";
 import "./globals.css";
-
-export const metadata: Metadata = {
-  title: "COSMOS / AR — 우주를 걷는 순간",
-  description: "스크롤로 태양계와 딥 스페이스를 여행하는 인터랙티브 우주 탐사 경험",
-  icons: { icon: "/favicon.svg" },
-  openGraph: {
-    title: "COSMOS / AR — 우주를 걷는 순간",
-    description: "스크롤로 태양계와 딥 스페이스를 여행하세요.",
-    images: [{ url: "/og.png", width: 1732, height: 909, alt: "COSMOS / AR 우주 탐사" }],
-  },
-  twitter: { card: "summary_large_image", images: ["/og.png"] },
-};
-
-export default function RootLayout({ children }: Readonly<{ children: React.ReactNode }>) {
-  return <html lang="ko"><body>{children}</body></html>;
-}
+export const metadata: Metadata={title:"COSMOS / AR — Step Beyond the Known",description:"An interactive field guide to the Solar System and deep space.",icons:{icon:"/favicon.svg"},openGraph:{title:"COSMOS / AR — Step Beyond the Known",description:"Explore the Solar System and deep space through an interactive journey.",images:[{url:"/og.png",width:1732,height:909,alt:"COSMOS / AR space exploration"}]},twitter:{card:"summary_large_image",images:["/og.png"]}};
+export default function RootLayout({children}:Readonly<{children:React.ReactNode}>){return <html lang="en"><body>{children}</body></html>}
